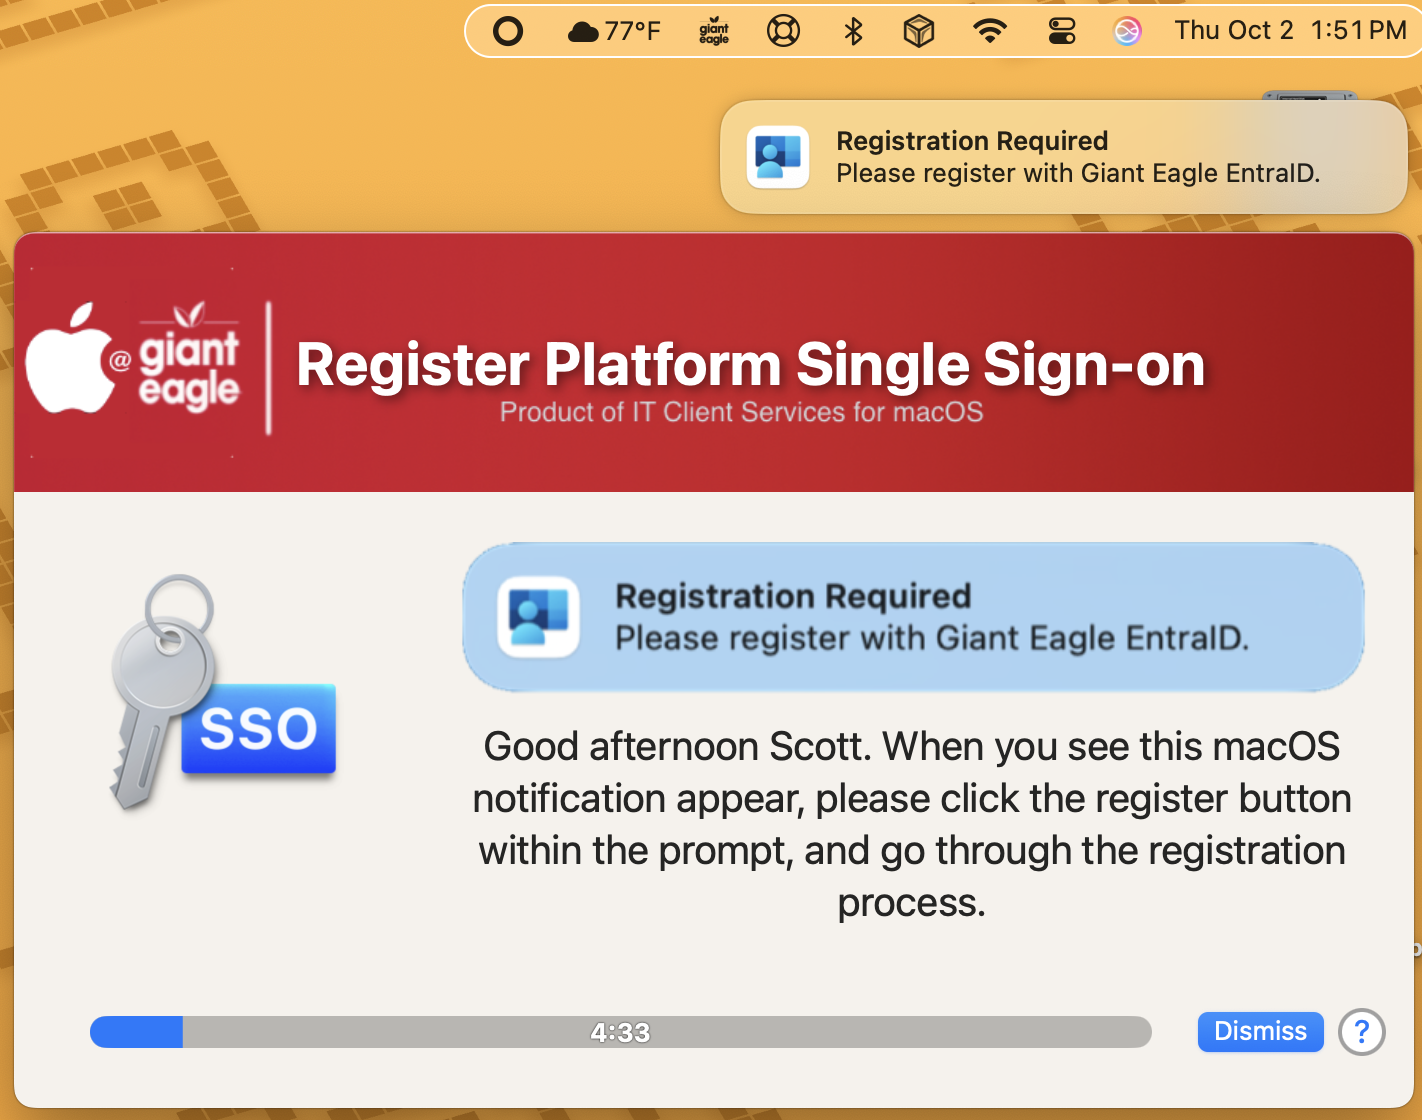
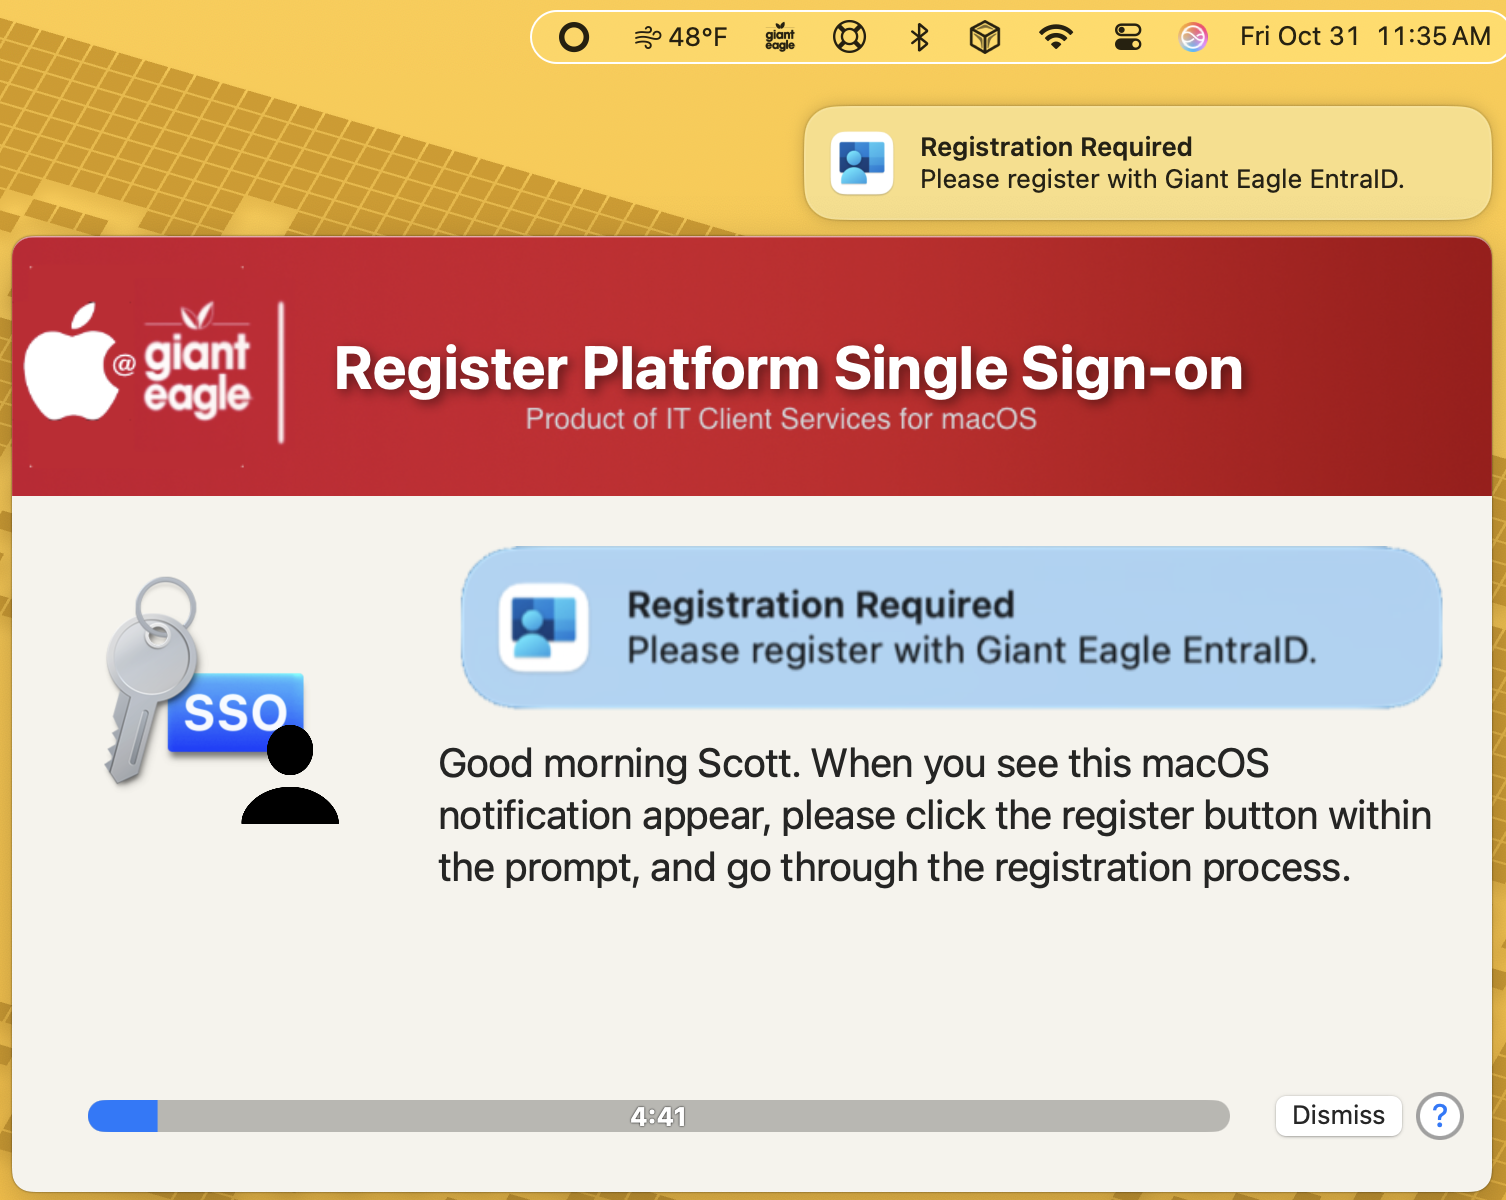
Force Platform SSO Prompt for registration

diff --git a/ForcePlatformSSO/README.md b/ForcePlatformSSO/README.md
@@ -15,4 +15,17 @@ Script was inspired by the work done by Howie Canterbury.
 
 ![](./ForcePlatformSSO.png)
 
+If the user has focus mode turned on, they will get a slightly different message
+
+![](./ForcePlatformSSO-Focus.png)
+
 ##### _v1.0 - Initial Commit_
+##### 1.1 - Made MDM profile and JAMF group mame passed in variables vs hard coded
+* Make sure that all exit processes go thru the cleanup_and_exit function
+* Made the psso command run as current user (Thanks Adam N)
+* Perform a gatherAADInfo command after successful registration
+#### 1.2 - Put in the --silent flag for the curl commands to not clutter the log
+* Changed logic in the detection of SS+...it was not returning expected value
+* Change the gatherAADInfo to RunAsUser vs root
+#### 1.3 - removed the app-sso -l command...wasn't really needed 
+#### 1.4 - Added feature to check for focus status and change the alert message accordingly
